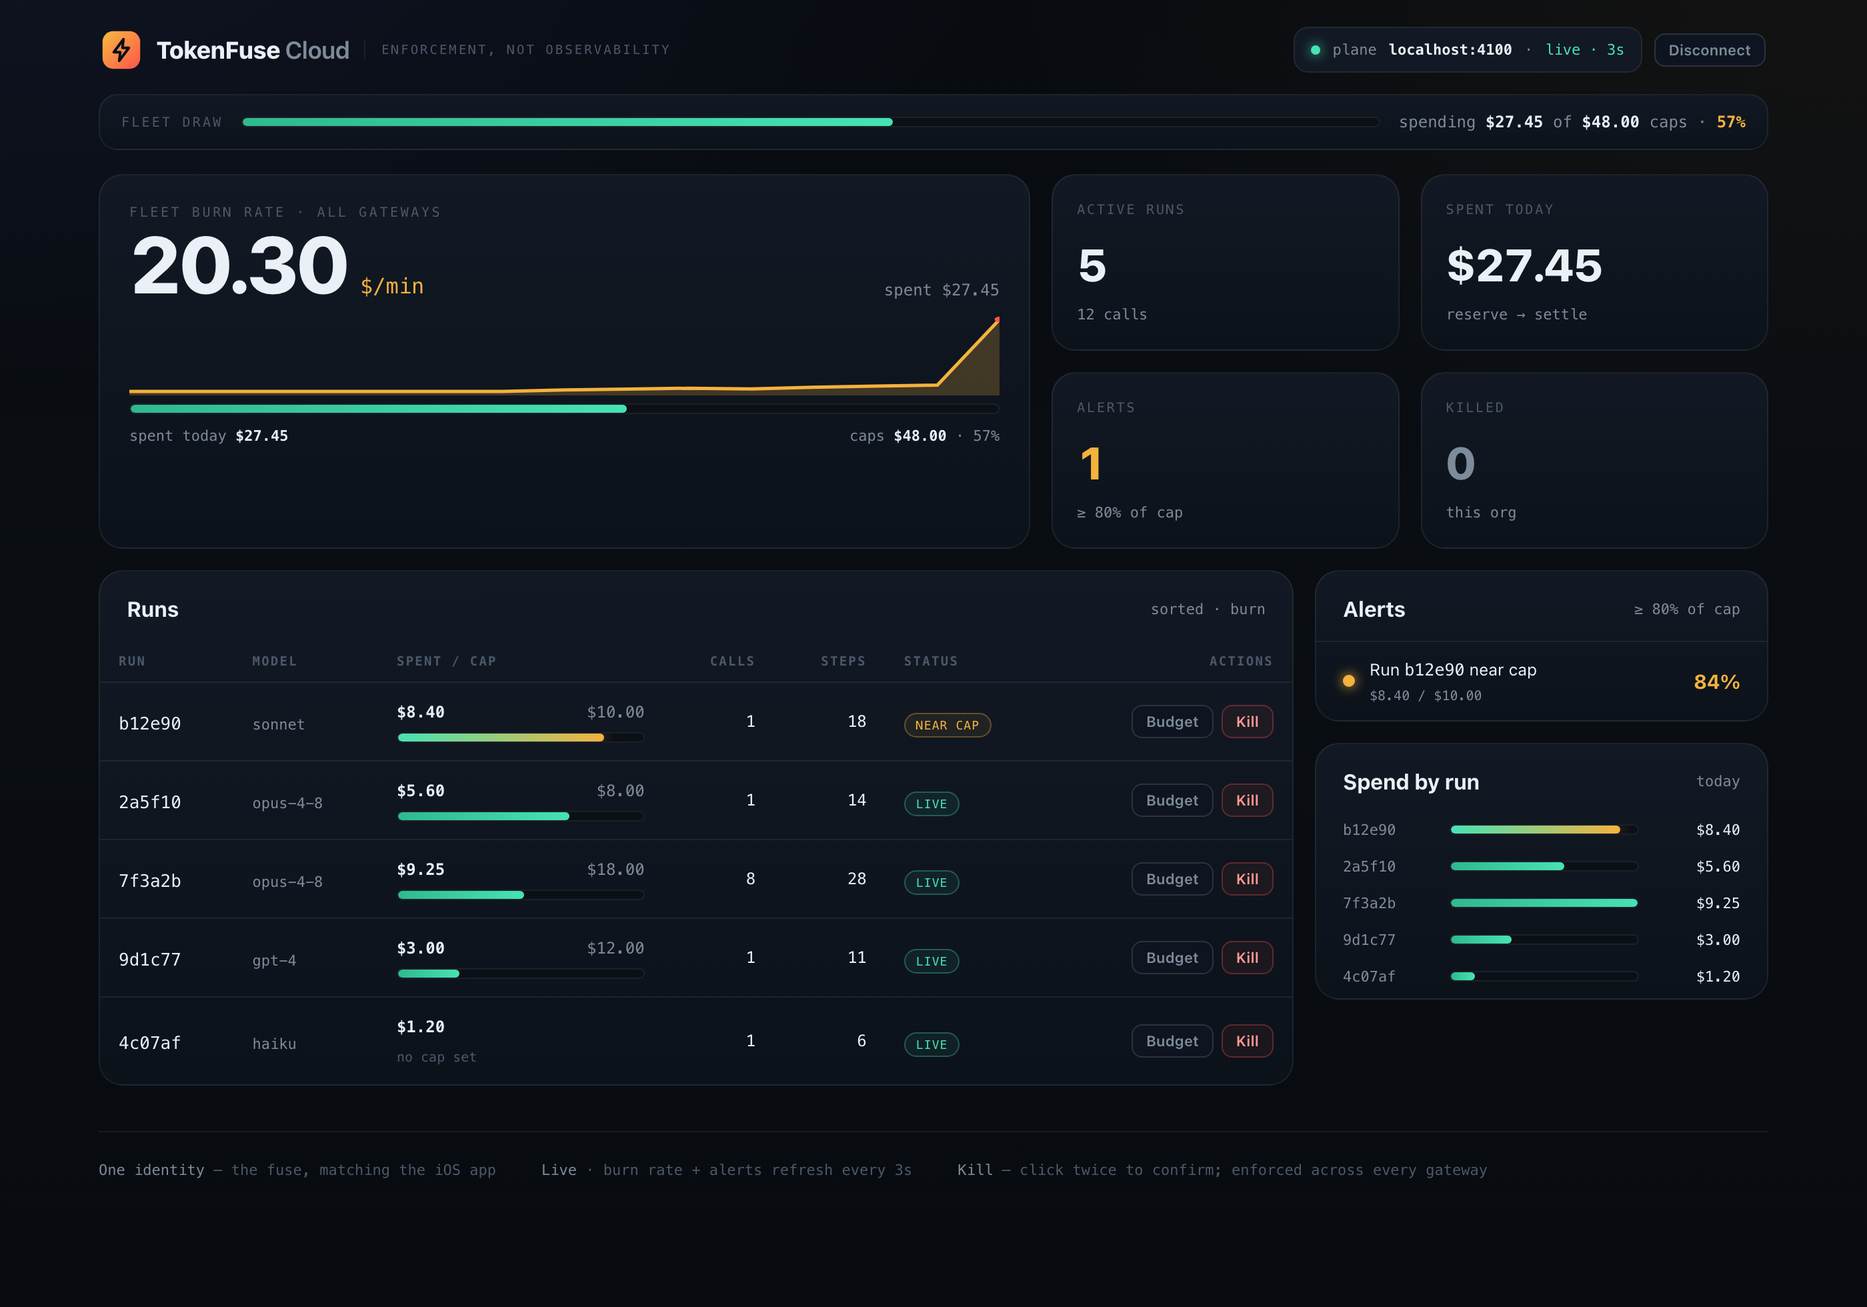
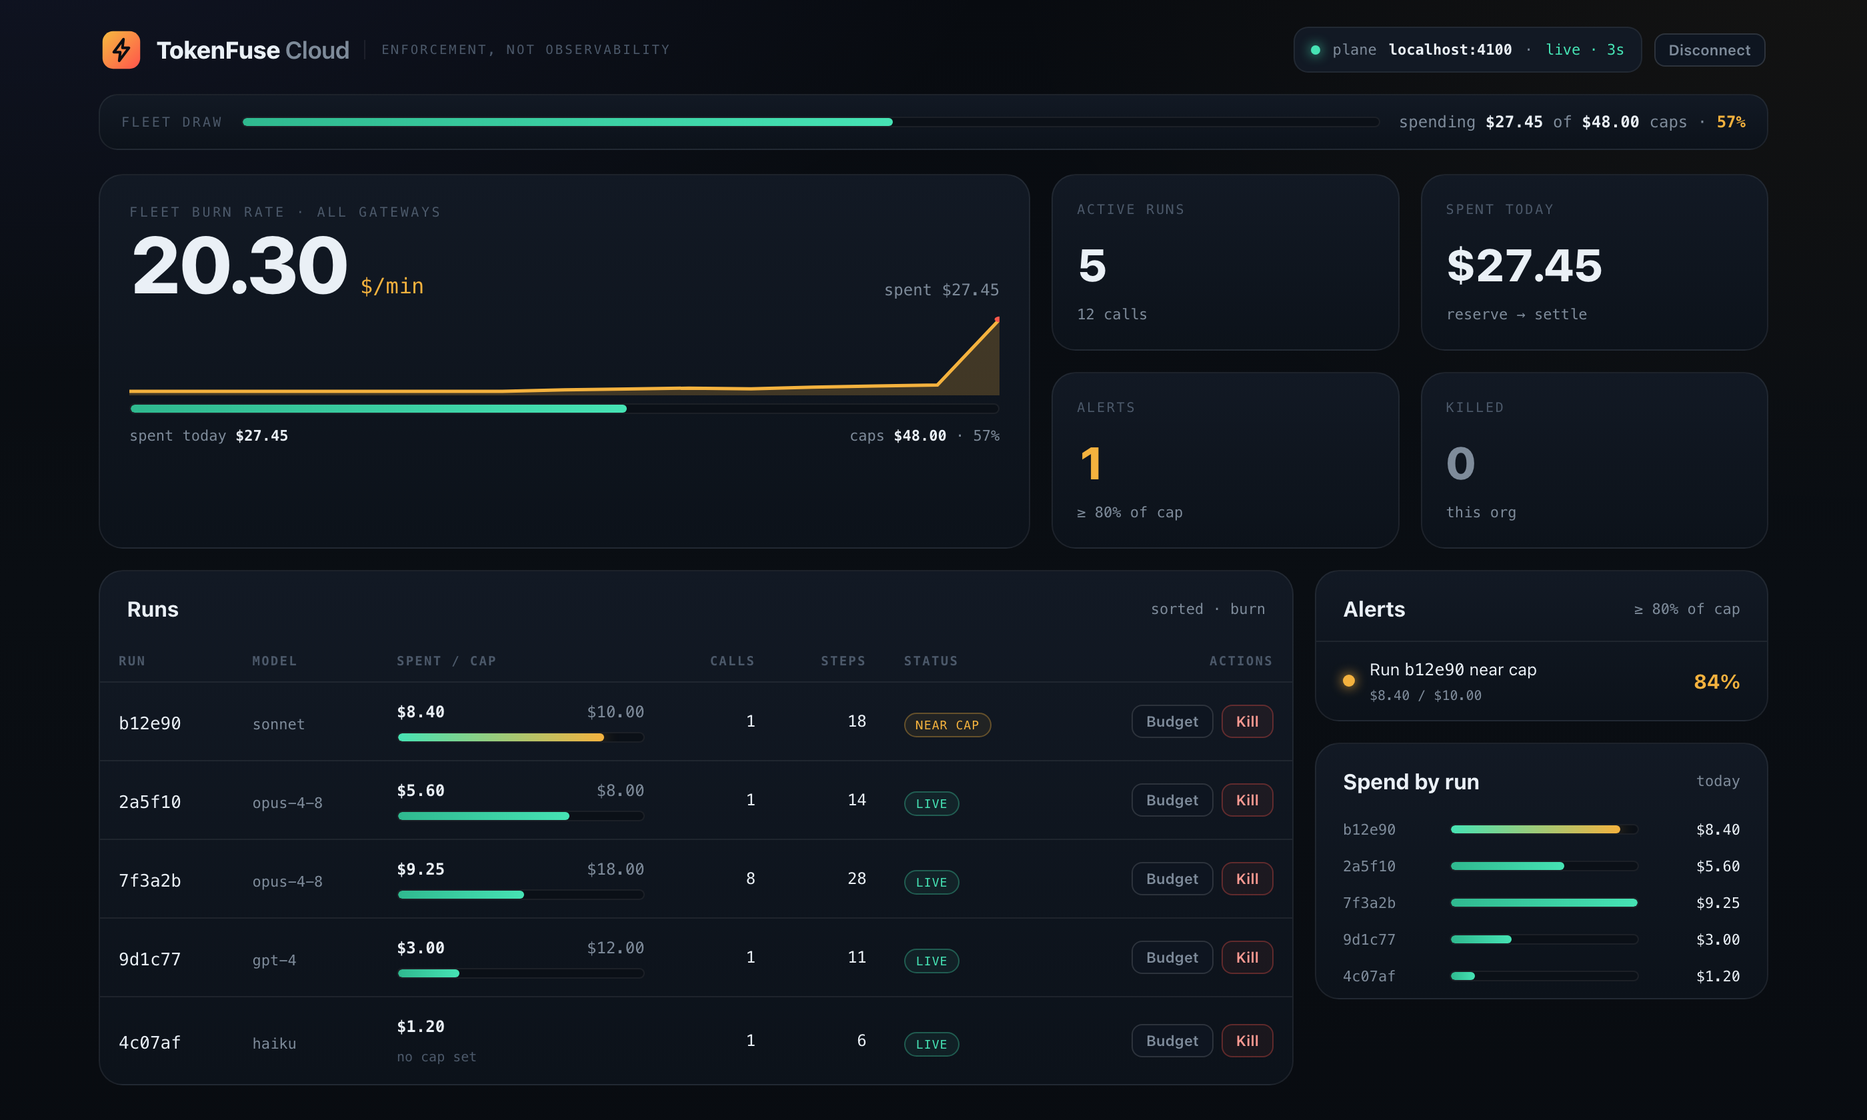
docs: the README describes the shipped surfaces only
The README led on a kill switch "signed on-device by your iPhone's Secure
Enclave" and gave the phone-and-watch app a badge, a table-of-contents entry,
a differentiator, a capability-matrix row, a section of its own, a release
note, a glossary clause and a docs row. None of that is a surface anyone can
use: the app is not distributed, so the only client of the Cloud's paired-
device signing path does not exist. Per the repo's own honesty invariant,
claiming it as one of five differentiators over-claims, so it is out rather
than reworded, and the four that remain are renumbered.

The dashboard screenshot carried the same claim baked into its footer strip
("matching the iOS app"), which no edit to the markdown could reach, so the
strip is cropped off. The string itself is fixed at both sources: the Next.js
dashboard and the static live preview. That also clears two long dashes in
the dashboard footer.

Also adds the service's diagram from its room on it-rat.com, animated with
SMIL because a README has no JavaScript.

diff --git a/cloud/dashboard/app/page.tsx b/cloud/dashboard/app/page.tsx
@@ -671,13 +671,13 @@ export default function Page() {
 
       <footer className="foot">
         <span>
-          <b>One identity</b> — the fuse, matching the iOS app
+          <b>One identity</b> - the fuse, from the gateway to this dashboard
         </span>
         <span>
           <b>Live</b> · burn rate + alerts refresh every 3s
         </span>
         <span>
-          <b>Kill</b> — click twice to confirm; enforced across every gateway
+          <b>Kill</b> - click twice to confirm; enforced across every gateway
         </span>
       </footer>
     </div>

diff --git a/docs/preview/index.html b/docs/preview/index.html
@@ -186,7 +186,7 @@
   </div>
 
   <footer class="foot">
-    <span><b>One identity</b> - the fuse, matching the iOS app</span>
+    <span><b>One identity</b> - the fuse, from the gateway to this dashboard</span>
     <span><b>Open source</b> · Apache-2.0 · self-host</span>
     <span><b>Enforcement</b> - an over-budget call gets a hard 402, not a warning after the fact</span>
   </footer>

diff --git a/README.md b/README.md
@@ -8,7 +8,7 @@
 
 **A proxy you drop in front of every LLM call - it also blocks poisoned MCP tools and keeps secrets out of the model.**
 
-> The kill-switch isn't just an API call - it's signed on-device by your iPhone's Secure Enclave, so a stolen API token alone can't stop (or fake-stop) your agents.
+> The kill-switch isn't a dashboard button you press after the fact - it's an HTTP 402 the gateway returns mid-run, before the provider bills you.
 
 ![release](https://img.shields.io/badge/release-v0.4.0-brightgreen)
 ![image](https://img.shields.io/badge/ghcr.io-tokenfuse-blue?logo=docker)
@@ -16,7 +16,6 @@
 ![core](https://img.shields.io/badge/core-Rust-orange)
 ![control%20plane](https://img.shields.io/badge/control%20plane-Rust-DEA584)
 ![dashboard](https://img.shields.io/badge/dashboard-Next.js-black)
-![mobile](https://img.shields.io/badge/mobile-iOS%20·%20watchOS-1a1a1a?logo=apple)
 
 </div>
 
@@ -34,9 +33,17 @@ TokenFuse is a **drop-in proxy** between your AI agents and their LLM providers.
 
 <img src="docs/assets/dashboard.png" alt="TokenFuse Cloud dashboard: fleet burn rate, per-run spend vs. cap, near-cap alerts, and a per-run kill-switch" width="820">
 
-<sub>The Cloud dashboard: fleet <b>burn rate</b>, per-run spend vs. cap, near-cap alerts, and a per-run kill-switch. Its tagline is literal: <b>enforcement, not observability</b>. One visual identity, <i>the fuse</i>, shared with the <a href="#-tokenfuse-for-iphone--apple-watch">iPhone &amp; Apple Watch app</a>. <code>cd cloud && docker compose up</code>.</sub>
+<sub>The Cloud dashboard: fleet <b>burn rate</b>, per-run spend vs. cap, near-cap alerts, and a per-run kill-switch. Its tagline is literal: <b>enforcement, not observability</b>. One visual identity, <i>the fuse</i>, runs from the gateway through to this dashboard. <code>cd cloud && docker compose up</code>.</sub>
 
 <sub><a href="https://taipanbox.github.io/tokenfuse/preview/"><b>▶ Live preview</b></a>: the dashboard with sample data, in your browser, no backend and no install.</sub>
+
+</div>
+
+<div align="center">
+
+<img src="assets/diagram.svg" alt="TokenFuse architecture: an agent SDK points at the tokenfuse-gateway, which prices and gates every call in-line, asks Wardryx for a policy decision, replicates budgets through a raft ledger, and streams records to the Cloud dashboard" width="960">
+
+<sub>The same service as its room on <a href="https://it-rat.com/services/tokenfuse.html">it-rat.com</a> draws it, where the diagram sits next to a simulation you can scrub back and forth.</sub>
 
 </div>
 
@@ -116,7 +123,6 @@ Full write-up, all numbers, the cluster-scale costs, and the real bugs live test
 - [What's inside](#-whats-inside)
 - [**🚀 Get started**](#-get-started) ← install & first run
 - [Scan your MCP servers & gate CI](#-scan-your-mcp-servers--gate-ci) ← free scanner + GitHub Action
-- [TokenFuse for iPhone & Apple Watch](#-tokenfuse-for-iphone--apple-watch) ← the fleet on your phone & wrist
 - [Architecture](#-architecture)
 - [Project status](#-project-status)
 - [The bigger picture](#-the-bigger-picture-a-runtime-firewall)
@@ -163,25 +169,21 @@ flowchart LR
 
 ## 🎯 Why TokenFuse is different
 
-Most of the tooling around AI agents watches, logs, or filters. TokenFuse sits **in the request path** and can actually stop something, in real time, at the layer where the money and the secrets move. Five things about that we haven't found built together anywhere else:
+Most of the tooling around AI agents watches, logs, or filters. TokenFuse sits **in the request path** and can actually stop something, in real time, at the layer where the money and the secrets move. Four things about that we haven't found built together anywhere else:
 
 ### 1. Enforcement, not observability
 
 That's the dashboard's own tagline, and it's literal, not marketing. TokenFuse doesn't just chart what an agent spent after the fact: it estimates cost *before* the call, checks it against the run's budget and a loop detector, and returns **HTTP 402** the instant a run would go over - cutting the circuit before the provider bills you, not after. `shadow → warn → enforce` lets you prove this against real traffic before you ever let it block anything. A dashboard tells you the fire happened; TokenFuse is the breaker.
 
-### 2. A hardware-signed, out-of-band kill switch
-
-Every kill you can trigger from TokenFuse (the API, `tokenfuse top`, Slack, the Cloud dashboard) has a sibling on your iPhone and Apple Watch: a Face-ID-gated Breaker whose kill request is **signed on-device by the Secure Enclave** before it ever reaches your fleet. That matters specifically when the thing running away is the agent host itself: the phone in your pocket is a genuinely independent control path, not another tab on the same machine that might be the one misbehaving.
-
-### 3. Budgets that survive a crash
+### 2. Budgets that survive a crash
 
 A budget only means something if two gateways racing each other can't both spend it, and if it doesn't vanish the moment a process dies mid-run. TokenFuse's per-run budgets are **hierarchical** - a sub-agent's spend rolls up and is checked against every ancestor, all-or-nothing - and, in cluster mode, are replicated across nodes through a **raft** state machine that can persist durably to disk (redb). The affordability check is linearized across the whole gateway fleet, so there's no cross-node double-spend, and - with durable storage enabled - a budget outlives not just a node crash but a full process restart.
 
-### 4. Drop-in, fail-open, and fast
+### 3. Drop-in, fail-open, and fast
 
 Point `TOKENFUSE_UPSTREAM` at Anthropic, or at any endpoint that speaks the **Anthropic Messages API** (the gateway serves `/v1/messages`; an OpenAI-compatible `/v1/chat/completions` front is planned but not yet implemented, see [docs/02](docs/02-architecture.md)), and TokenFuse prices and enforces against all of it from the same binary, with a fallback price for models it doesn't recognize rather than silently letting spend go untracked. It's a one-line base-URL swap, **shadow mode first** so it's risk-free to drop in, **fail-open** so it's never a single point of failure, works fully offline against a built-in fake provider, and it's Rust: the enforcement decision itself adds well under a microsecond in-process (~0.4 µs p99 - see [BENCHMARKS.md](BENCHMARKS.md)).
 
-### 5. Catch a poisoned MCP tool for free, and gate CI on it
+### 4. Catch a poisoned MCP tool for free, and gate CI on it
 
 `tokenfuse mcp-scan` is a standalone, free CLI: point it at a live MCP server over Streamable HTTP or SSE, and it checks tool descriptions for injection phrases and hidden characters, then pins a fingerprint of every tool you approve and flags a **rug pull** the moment a tool's description or schema silently changes on a later fetch - exactly the supply-chain gap MCP's re-fetch-on-connect model opens up. It ships as a GitHub Action, so a rug pull fails the PR, not a future incident review; [docs/17](docs/17-rugpull-demo.md) has a runnable, self-contained demo of the whole catch. At runtime, the companion **MCP credential-broker** goes further and keeps secrets out of the model entirely: the agent only ever holds a handle like `{{secret:github_token}}`, and the real value is injected at the last hop, never in the prompt, the trace, or the model's memory.
 
@@ -252,7 +254,6 @@ There are excellent tools *around* this problem. None of the categories below si
 | **Loop / runaway detection** | ✅ | ❌ | ❌ | ❌ |
 | **Enforce: stop before the damage** | ✅ | ❌ | ⚠ key caps only | ⚠ content only |
 | Live kill-switch (from Slack / dashboard) | ✅ | ❌ | ❌ | ❌ |
-| Hardware-signed kill (Secure Enclave) | ✅ | ❌ | ❌ | ❌ |
 | **Budgets survive a crash** (HA, no double-spend) | ✅ | ❌ | ❌ | ❌ |
 | Free MCP poisoning / rug-pull scan, CI-gated | ✅ | ❌ | ❌ | ⚠ partial |
 | Secrets kept out of the model (MCP broker) | ✅ | ❌ | ❌ | ⚠ partial |
@@ -264,7 +265,6 @@ TokenFuse's core bet is **enforcement, not observation**, and a few of its capab
 
 - **Loop-aware enforcement at the proxy.** Gateways cap a key; none *detect a runaway loop* and cut it off mid-task.
 - **Per-run budgets linearized across an HA cluster.** Reserve/settle runs through a raft state machine, so several gateways serving the same run can't *both* slip past one ceiling, a distributed no-double-spend guarantee for budgets.
-- **A hardware-signed kill outside the agent host.** A phone or watch that signs the stop request on-device, so the control path doesn't depend on the machine that might be compromised.
 - **MCP credential brokering.** The agent holds only a *handle* (`{{secret:token}}`); the real secret is injected at the boundary, so it never enters the prompt, trace, or the model's memory.
 - **eBPF shadow-agent discovery.** Find agents by the LLM traffic they emit, with zero application changes.
 
@@ -309,8 +309,7 @@ Everything below is **implemented on `main` and tested in CI** (see [PROGRESS.md
 **Ops & platform**
 - 🧬 **HA raft cluster**: replicated budgets, durable storage, runtime membership, token auth + TLS.
 - ☁ **Hosted Cloud**: Rust control plane + Next.js dashboard: fleet-wide spend, kill-switch, and central budgets across many gateways. Binds to **loopback by default**; a wider bind is an explicit opt-in (`TOKENFUSE_CLOUD_HOST`) meant to sit behind your own TLS or tunnel, never on a raw public IP.
-- 📋 **Compliance evidence pack + audit trail**: `tokenfuse compliance` (CLI, free) and the Cloud `/v1/compliance` / `/v1/compliance/evidence` endpoints project real decision, incident, and MCP-scan evidence onto EU AI Act, US Fed SR 11-7, and SOC 2 controls, each graded `enforced` / `partial` / `documented` rather than over-claimed (a green catalog is not a certification). Every control-plane mutation (kill, budget change, device pairing, incident ack) lands in a hash-chained, ES256-signed audit trail (`/v1/audit`, `/v1/audit/verify`, `/v1/audit/manifest`).
-- 📱 **[TokenFuse for iPhone & Apple Watch](#-tokenfuse-for-iphone--apple-watch)**: pair a phone, watch burn rate live, and pull an Enclave-signed kill from the Dynamic Island.
+- 📋 **Compliance evidence pack + audit trail**: `tokenfuse compliance` (CLI, free) and the Cloud `/v1/compliance` / `/v1/compliance/evidence` endpoints project real decision, incident, and MCP-scan evidence onto EU AI Act, US Fed SR 11-7, and SOC 2 controls, each graded `enforced` / `partial` / `documented` rather than over-claimed (a green catalog is not a certification). Every control-plane mutation (kill, budget change, incident ack) lands in a hash-chained, ES256-signed audit trail (`/v1/audit`, `/v1/audit/verify`, `/v1/audit/manifest`).
 - 🗄 **Zero-DB analytics**: telemetry in open **Parquet**, queried with `tokenfuse sql "..."`; OTel export; a separate opt-in NDJSON event stream sits alongside it (next bullet).
 - 📨 **Agent-event NDJSON export** *(opt-in)*: set `TOKENFUSE_EVENTS_PATH=<file>` and every breaker trip, DLP/taint block, and MCP rug-pull is appended as one NDJSON line in the shared [Agent Passport](https://github.com/TAIPANBOX/agent-passport) event envelope (`taipanbox.dev/agent-event/v0.1`). Unset by default: zero hot-path cost, no file handle opened. Writes are fail-open (a write error is logged, never a request failure), and an event with no `x-fuse-agent-id` on the request is skipped and counted, never fabricated. Every line carries the spec's §6.5 `prev_hash` integrity chain (one file = one chain, resumed across restarts); verify a stream with `agent-conform -chain <file>`. Tamper-evidence, not tamper-proof: a partial edit or truncation no longer passes silently.
 - 🐍 **Python SDK**, sub-µs decision path, four public container images, and published npm / crates.io / PyPI packages.
@@ -434,20 +433,6 @@ Scanning catches a poisoned tool before it's approved. The runtime **[MCP creden
 
 ---
 
-## 📱 TokenFuse for iPhone & Apple Watch
-
-<img align="right" width="88" src="docs/assets/logo.png" alt="TokenFuse app icon">
-
-This is the sharpest expression of differentiator #2 above: an independent, hardware-signed control path for your fleet that doesn't depend on the agent host being trustworthy. Pair a device once, watch every agent's **burn rate** live, get alerted the moment one runs hot, and pull a kill switch that's *signed on-device by the Secure Enclave*, so a stolen token alone can't stop (or fake-stop) your agents. Face-ID budgets, live burn charts, and the burn rate in the **Dynamic Island**, with the same on your **Apple Watch**, including a two-tap wrist kill and a face complication. It shares one visual language, *the fuse*, with the [web dashboard](cloud/dashboard).
-
-The app has its own repository, with screenshots, a full feature tour, and build instructions:
-
-### → **[github.com/TAIPANBOX/tokenfuse-mobile](https://github.com/TAIPANBOX/tokenfuse-mobile)**
-
-Its plan & wire protocol and the shared design system still live here: [docs/14](docs/14-mobile-companion.md) · [docs/16](docs/16-design-system.md).
-
----
-
 ## 🏗 Architecture
 
 <div align="center">
@@ -490,7 +475,7 @@ Design decisions and the data model: [docs/02-architecture.md](docs/02-architect
 
 The full request path (budget enforcement, SSE passthrough, loop detection, hierarchical budgets), the intelligence/ops layer (semantic cache, WASM policies, backtesting, Parquet + `tokenfuse sql`, OTel, `tokenfuse top`, Python SDK), the security packs (agent firewall/taint, DLP, MCP scanner + credential-broker, CI Action), eBPF Radar, the raft **HA cluster** (durable storage, membership, auth, TLS), and the **hosted Cloud** (control plane + dashboard, telemetry, fleet-wide kill-switch, central budgets) are all implemented, tested in CI, and published as container images.
 
-**v0.4.0** ("live-validation fixes, fail-closed hardening", 2026-07-15) shipped everything built since v0.3.0: **[TokenFuse for iPhone & Apple Watch](#-tokenfuse-for-iphone--apple-watch)** (pairing, live fleet, Enclave-signed kill, burn charts, Dynamic Island), the web dashboard restyled to share the app's "fuse" identity, the MCP scanner's live `--url` mode, JSON reports, `--fail-on` exit codes and composite GitHub Action, `tokenfuse focus-export` (Parquet traces → a FinOps FOCUS-format CSV, blocked calls included as $0 rows), the opt-in agent-event NDJSON exporter (`TOKENFUSE_EVENTS_PATH`) and the `x-fuse-on-behalf-of` delegation-chain header (the shared [Agent Passport](https://github.com/TAIPANBOX/agent-passport) spec), plus the fail-closed fixes a real-infrastructure validation campaign shook out ([VALIDATION.md](VALIDATION.md)).
+**v0.4.0** ("live-validation fixes, fail-closed hardening", 2026-07-15) shipped everything built since v0.3.0: the web dashboard restyled around the "fuse" identity, the MCP scanner's live `--url` mode, JSON reports, `--fail-on` exit codes and composite GitHub Action, `tokenfuse focus-export` (Parquet traces → a FinOps FOCUS-format CSV, blocked calls included as $0 rows), the opt-in agent-event NDJSON exporter (`TOKENFUSE_EVENTS_PATH`) and the `x-fuse-on-behalf-of` delegation-chain header (the shared [Agent Passport](https://github.com/TAIPANBOX/agent-passport) spec), plus the fail-closed fixes a real-infrastructure validation campaign shook out ([VALIDATION.md](VALIDATION.md)).
 
 Since v0.4.0, on `main`: TokenFuse is now **free end to end** (the last plan-entitlement gating was removed from Cloud; there is no paid TokenFuse tier); the Cloud control plane **binds to loopback by default**, with `TOKENFUSE_CLOUD_HOST` as the explicit opt-in for a wider bind; the docs stopped claiming an OpenAI-compatible endpoint the gateway doesn't serve yet; and the dashboard gained a no-install **[live preview](https://taipanbox.github.io/tokenfuse/preview/)** with sample data.
 
@@ -536,7 +521,7 @@ Rationale ("one product, not three"): [docs/09-product-strategy.md](docs/09-prod
 | **Agent** | An AI that works in a loop: think → act → observe → repeat. Powerful, but can spiral. |
 | **Run** | One complete agent task, start to finish, possibly hundreds of LLM calls. |
 | **Runaway** | An agent stuck looping or exploding in cost; the thing TokenFuse stops. |
-| **Breaker** | The mechanism that trips and stops a run when it crosses a budget, loop, taint, DLP, or policy limit - exposed as a kill-switch across API, TUI, Slack, Cloud, and the signed mobile control. |
+| **Breaker** | The mechanism that trips and stops a run when it crosses a budget, loop, taint, DLP, or policy limit - exposed as a kill-switch across the API, the TUI, Slack, and the Cloud dashboard. |
 | **Proxy** | A middleman in the request path. You point your agent at it instead of the provider. |
 | **MCP** | A standard for agents to call external tools/servers; powerful, and a new security surface. |
 | **Rug pull** | A previously approved MCP tool that silently changes its description or schema on a later fetch. |
@@ -653,7 +638,7 @@ Limits, stated plainly: unit counters are in-process and per-gateway - they rese
 | [08 · Security extensions](docs/08-security-extensions.md) | MCP broker, RAG scanning, agent identity |
 | [10 · HA cluster](docs/10-ha-cluster.md) · [11 · Hosted Cloud](docs/11-hosted-cloud.md) · [12 · MCP credential-broker](docs/12-mcp-credential-broker.md) | The distributed + cloud + security layers |
 | [13 · Security model & hardening](docs/13-security-hardening.md) | Trust boundaries, implemented controls, `cargo audit` gate |
-| [14 · Mobile companion](docs/14-mobile-companion.md) · [16 · Design system](docs/16-design-system.md) | The iPhone & Apple Watch app (TokenFuse) plan + wire protocol, and the shared "fuse" visual identity |
+| [16 · Design system](docs/16-design-system.md) | The "fuse" visual identity: tokens, components, and how the dashboard is put together |
 | [17 · Rug-pull demo](docs/17-rugpull-demo.md) | `cargo run --example rugpull_demo` - a self-contained, lab-only demo of the live rug-pull scanner catching a tool that mutates post-approval |
 | [19 · Wave-2 governance](docs/19-wave2-governance.md) | Model router, the Wardryx policy hook (PEP/PDP split), Cloud replay + the regulator evidence pack, and per-instance Parquet trace segments: the design notes behind the "Wave-2 configuration" section above |
 | [20 · Identity map](docs/20-identity-map.md) | Key ↔ agent ↔ business-unit binding, strict mode, and monthly unit budgets: the design + build plan behind the "Identity map" section above |
